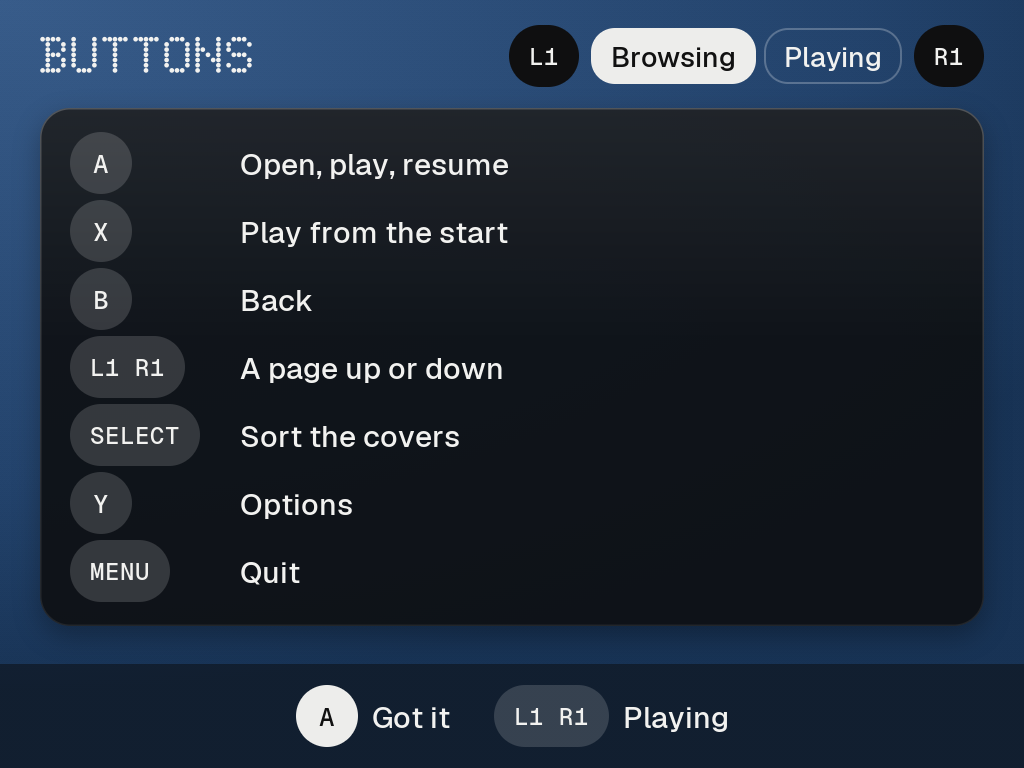
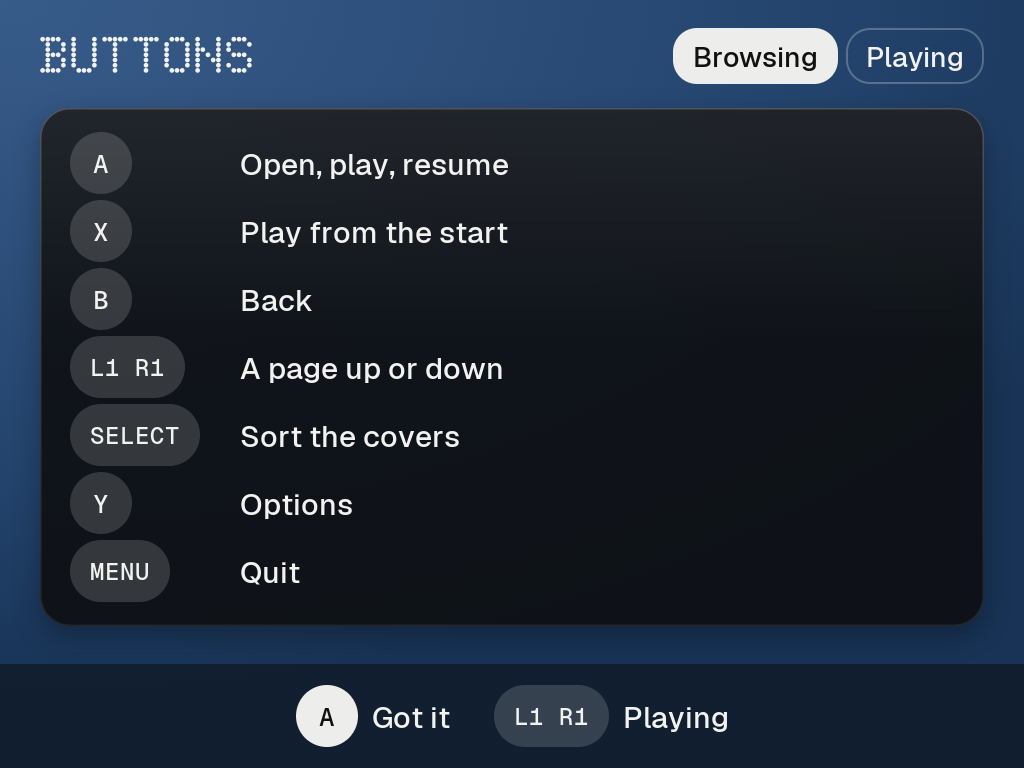
README for 1.0: Up next, skip intro and credits, the Audio tab with Prefer and Then; Options tabs and X while playing in the buttons; new screens (Up next, Audio tab, Options and buttons in the new look)

Changed region(s): [[0.5, 0.0312, 0.9688, 0.125]]

diff --git a/README.md b/README.md
@@ -11,7 +11,9 @@ from the Greek *kínēma*, movement, by way of the cinematograph.
 <img src="docs/screens/browse-series.png" width="49%" alt="Browsing a series: the selected episode's picture, facts and resume time on the left, the episodes as rows on the right">
 <img src="docs/screens/local-grid.png" width="49%" alt="A folder of films as covers, made from frames of the films or a picture next to them">
 <img src="docs/screens/playing.png" width="49%" alt="Playing, paused: the time in dot-matrix numbers, rewind, play and forward, and a dotted progress bar">
-<img src="docs/screens/options.png" width="49%" alt="Options: aspect, picture, subtitles and Brick settings in four cards">
+<img src="docs/screens/next-episode.png" width="49%" alt="Up next: the next episode's picture and name, and a ten-second countdown in dots">
+<img src="docs/screens/options.png" width="49%" alt="Options in four tabs: Picture, Audio, Subtitles and Brick">
+<img src="docs/screens/options-audio.png" width="49%" alt="The Audio tab: the sound track, and the languages to prefer">
 <img src="docs/screens/jellyfin-connect.png" width="49%" alt="Jellyfin Quick Connect: a six-digit code to approve in the Jellyfin app">
 <img src="docs/screens/help-first-start.png" width="49%" alt="The buttons screen shown on the first start">
 </p>
@@ -27,6 +29,12 @@ Screens rendered headless from the app with test clips (`build/shots.sh`).
 - **Jellyfin:** finds the server on the network and logs in with Quick Connect (a code you approve in the Jellyfin
   app). Continue watching and Next up first, films and series as a cover grid, seasons and episodes as rows. Plays
   directly when the Brick can, otherwise the server converts it. Progress is reported back to the server.
+- **Up next:** when an episode ends, the next one plays after a 10-second countdown: the next file in the folder
+  on the SD card, or the series' next episode on Jellyfin. A plays it now, B stays in the list. Options > Brick >
+  Play next episode turns it off.
+- **Skip intro and credits:** on Jellyfin, where the server has marked a film's intro, recap, preview or end credits
+  (Jellyfin's media segments), a button shows at the bottom right while they play and X skips them. An episode's end
+  credits go straight to Up next.
 - **Streaming over Wi-Fi:** Jellyfin quality in Options sets the most the server may send (2, 4 or 8 Mbit/s, or
   max; 4 by default, plenty for the screen and light on the Brick's 2.4 GHz Wi-Fi); bigger files are converted to
   fit. A pill at the top shows when a film is buffering or waiting for the server, with a note when the Wi-Fi is
@@ -34,8 +42,11 @@ Screens rendered headless from the app with test clips (`build/shots.sh`).
   back to the list with your place kept. Wi-Fi power saving is off while a Jellyfin film plays.
 - **While playing:** picture filters (sharpen, warm, cool, black & white, retro CRT), aspect (original, 4:3, 16:9,
   stretch, zoom, or no bars: the film's own black bars cut away, so only pure black surrounds the picture), brightness
-  (it keeps black black), contrast, deinterlacing, subtitles (in Noto Sans, four sizes, from the film, a file next to
-  it or Jellyfin) with a preferred language, and the Brick's lights can follow the colour of the picture.
+  (it keeps black black), contrast, deinterlacing, and the Brick's lights can follow the colour of the picture.
+- **Sound and subtitles in your language:** the Audio and Subtitles tabs in Options each have Prefer and Then, chosen
+  from about 45 languages, and Kino picks the matching track itself (the film's own when neither is there). A track
+  you choose yourself is kept. This works for Jellyfin too, also when the server converts the film. Subtitles are in
+  Noto Sans, in four sizes, from the film, a file next to it or Jellyfin, and keep their shape with any aspect.
 
 ## Buttons
 
@@ -43,7 +54,7 @@ Screens rendered headless from the app with test clips (`build/shots.sh`).
 |---|---|---|
 | A | open, play, resume | pause |
 | B | back (quit at the top) | stop and save the place |
-| X | play from the start | |
+| X | play from the start | skip the intro, recap or credits (when the button shows) |
 | Y | options | options |
 | ◄ ► | a page (rows) or move (covers) | 10 seconds back, forward |
 | ▼ | | to the progress bar to scrub; A jumps there |
@@ -52,7 +63,8 @@ Screens rendered headless from the app with test clips (`build/shots.sh`).
 | SELECT | sort the covers: name, recently added, unwatched | subtitles on/off |
 | MENU | quit | quit (the place is saved) |
 
-In Options, X shows the buttons screen (it also opens on the first start).
+In Options, L1 / R1 change the tab and X shows the buttons screen (it also opens on the first start). On Up next,
+A plays the episode now and B stays in the list.
 
 ## Install
 
